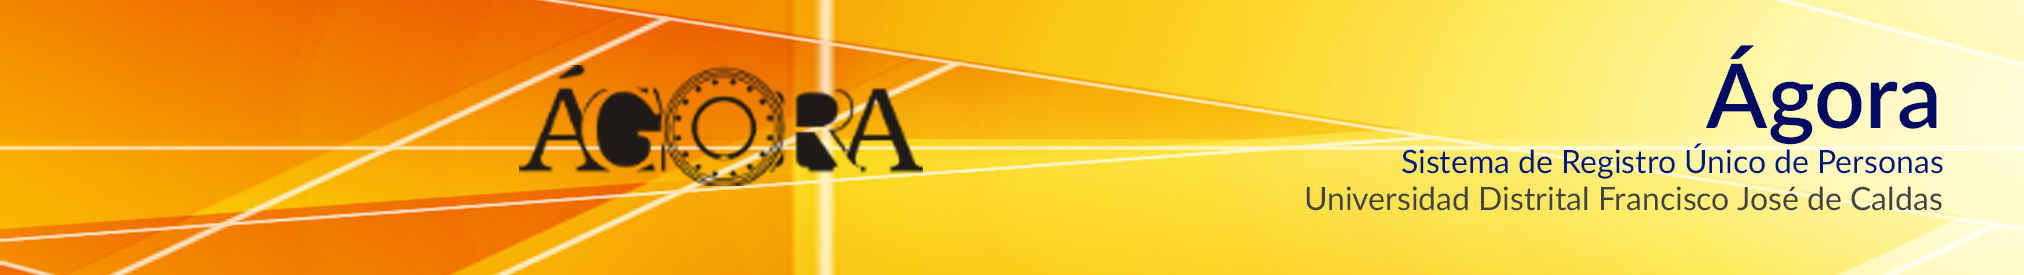
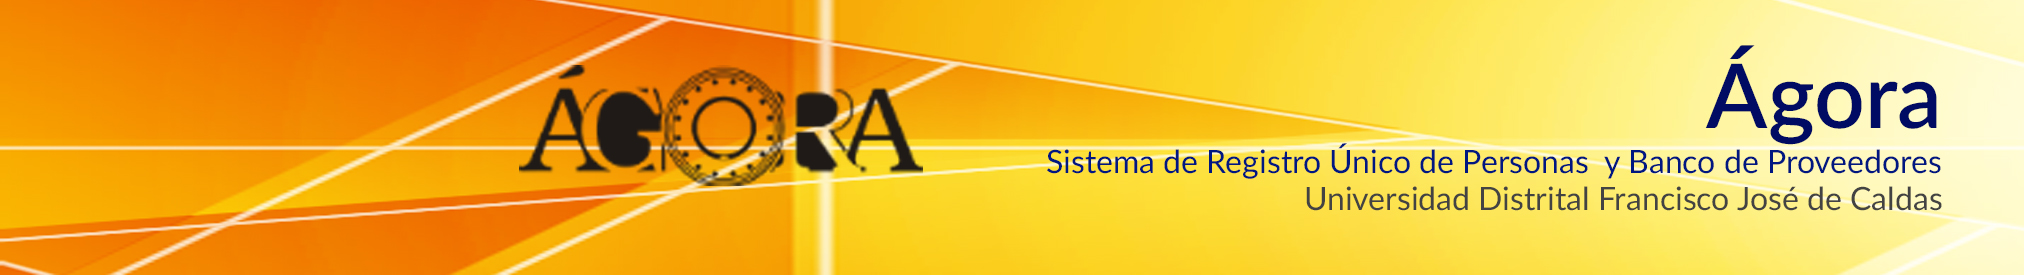
Cambio Ajuste Interfaz Nombre del Sistema Publicación

Changed region(s): [[0.498, 0.5527, 0.9649, 0.64]]

diff --git a/blocks/registro/loginAgora/formulario/formLogin.php b/blocks/registro/loginAgora/formulario/formLogin.php
@@ -237,9 +237,9 @@ class Formulario {
             <div id="fondo_texto">
                 <div id="texto">
 
-                        <h2>¡Bienvenido al Sistema de Registro Único de Personas! </h2>
+                        <h2>¡Bienvenido al Sistema de Registro Único de Personas y Banco de Proveedores! </h2>
                          <h2>ÁGORA</h2><br>     
-                        <p>La Vicerrectoría Administrativa y Financiera y la Sección de Compras  de la Universidad Distrital Francisco José de Caldas lo invita a participar en los procesos de contratación.</p>
+                        <p>La Vicerrectoría Administrativa y Financiera de la Universidad Distrital Francisco José de Caldas lo invita a participar en los procesos de contratación.</p>
                         <p>
                             <a class="btn btn-lg btn-warning" href="<?php echo $urlCodificada; ?>" role="button">Registro Persona</a>
                         </p>
